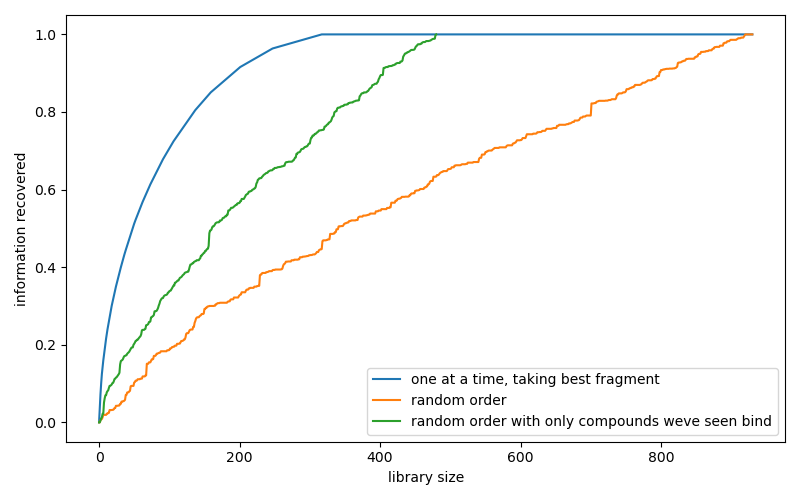
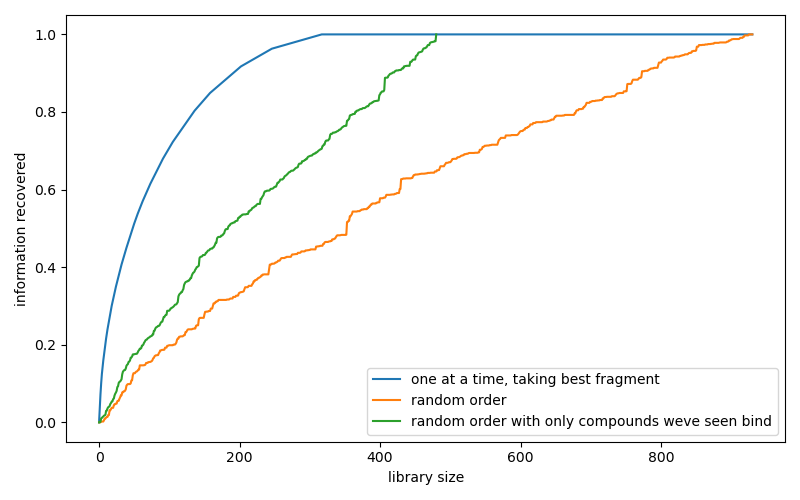
smaller dataset

diff --git a/scripts/test_rankings.py b/scripts/test_rankings.py
@@ -3,10 +3,15 @@ import json
 from rank_compounds import get_next_best_compound, get_all_smiles, rank
 import matplotlib.pyplot as plt
 import random
+from rdkit import Chem
+from rdkit.Chem import AllChem
+from rdkit.Chem import DataStructs, SaltRemover
 
 
 def get_reduced_smiles_bits(smiles_bits, test_target):
     
+    # get smiles bits without the target being tested 
+
     reduced = {}
 
     for t in smiles_bits:
@@ -17,6 +22,9 @@ def get_reduced_smiles_bits(smiles_bits, test_target):
 
 
 def get_fraction(comps, smiles_bits, target, total_information):
+
+    # get the fraction of information recovered using a subset of DSiP compounds
+
     target_fraction = [0]
     current_info = []
 
@@ -34,14 +42,23 @@ def get_fraction(comps, smiles_bits, target, total_information):
 
 
 smiles_bits = json.load(open('data/datafiles/smiles_bits.json', 'r'))
+frequent_comps = json.load(open('data/datafiles/frequently_tested_compounds.json', 'r'))
+target_tests = json.load(open('data/datafiles/target_test_numbers.json', 'r'))
+lib_size = 150
 
 smol = []
+print(target_tests)
 for t in smiles_bits:
-    if len(smiles_bits[t]) < 10:
+    if t in target_tests:
+        print(t, target_tests[t])
+    if t in target_tests and target_tests[t] < 250:
+        smol.append(t)
+    elif t not in target_tests:
         smol.append(t)
 
 for t in smol:
     del smiles_bits[t]
+
 # DSiP_smiles = all_smiles + ['C'] * 450
 # random.shuffle(DSiP_smiles)
 
@@ -52,11 +69,13 @@ fractions = []
 random_fractions = []
 comps_lists = []
 
+mean_random_fractions_250 = []
+print(len(smiles_bits))
 for test_target in smiles_bits:
 
     smiles_bits_reduced = get_reduced_smiles_bits(smiles_bits, test_target)
-    all_smiles = get_all_smiles(smiles_bits_reduced)
-    comps, x = rank(smiles_bits_reduced, all_smiles, 250)
+    all_smiles = [i for i in get_all_smiles(smiles_bits_reduced) if i in frequent_comps]
+    comps, x = rank(smiles_bits_reduced, all_smiles, lib_size)
     comps_lists += comps
 
 
@@ -68,11 +87,20 @@ for test_target in smiles_bits:
     target_fraction = get_fraction(comps, smiles_bits, test_target, total_information)
     fractions.append(target_fraction)
 
-    add_for_DSiP = 1007 - len(all_smiles)
+    add_for_DSiP = 459 - len(all_smiles)
     all_smiles += ['C'] * add_for_DSiP
     random.shuffle(all_smiles)
-    random_fraction = get_fraction(all_smiles[:250], smiles_bits, test_target, total_information)
+
+    random_fraction = get_fraction(all_smiles[:lib_size], smiles_bits, test_target, total_information)
     random_fractions.append(random_fraction)
+
+    random_fractions_250 = []
+    for i in range(1000):
+        random.shuffle(all_smiles)
+        random_fractions_250.append(get_fraction(all_smiles[:lib_size], smiles_bits, test_target, total_information)[-1])
+    mean_random_fractions_250.append(sum(random_fractions_250)/1000)
+
+
 
 
     print(test_target, len(comps), len(smiles_bits[test_target]), target_fraction[-1])
@@ -112,24 +140,26 @@ counts = [comps_lists.count(i) for i in all_smiles]
 plt.close()
 plt.figure(figsize=(8, 5))
 plt.bar(list(set(counts)), [counts.count(i) for i in set(counts)])
-plt.xlabel('number of times fragments in top 250')
+plt.xlabel(f'number of times fragments in top {lib_size}')
 plt.tight_layout()
 plt.savefig('figures/compound_counts.png')
 
-
+max_possible_improvement = []
 improvement = []
 for i in range(len(fractions)):
     try:
-        improvement.append((fractions[i][250]-random_fractions[i][250])/random_fractions[i][250])
+        improvement.append((fractions[i][lib_size]-mean_random_fractions_250[i])/mean_random_fractions_250[i])
+        max_possible_improvement.append((1-mean_random_fractions_250[i])/mean_random_fractions_250[i])
     except:
         improvement.append(0)
 
 
 plt.close()
-plt.figure(figsize=(8, 5))
+plt.figure(figsize=(8, 7))
+# plt.barh([t for t in smiles_bits], [improvement[i]/max_possible_improvement[i] for i in range(len(improvement))])
 plt.barh([t for t in smiles_bits], improvement)
-plt.xlabel('factor of information improvement in library size 250')
+plt.xlabel(f'factor of information improvement in DSiP-diverse {lib_size} vs average of 1,000 random runs')
 plt.ylabel('target')
-plt.xlim(-2, 10)
+# plt.xlim(-2, 7)
 plt.tight_layout()
 plt.savefig('figures/improvement_by_target.png')

diff --git a/scripts/structurally_diverse_library.py b/scripts/structurally_diverse_library.py
@@ -1,0 +1,77 @@
+from rdkit import Chem
+from rdkit.Chem import AllChem
+from rdkit.Chem import DataStructs, SaltRemover, rdMolDescriptors, MACCSkeys
+from rdkit import SimDivFilters
+import numpy as np
+import os
+from rank_compounds import get_all_smiles
+import json
+
+
+def dmat_sim(fps,ntopick):
+    ds=[]
+    for i in range(1,len(fps)):
+         ds.extend(DataStructs.BulkTanimotoSimilarity(fps[i],fps[:i],returnDistance=True))
+    mmp =SimDivFilters.MaxMinPicker()
+    ids=mmp.Pick(np.array(ds),len(fps),ntopick)
+    return ids
+
+
+def get_DSiP_smiles():
+
+    # using the sdf files provided by Enamine, the molecules are cleaned of salts and converted into SMILES strings
+
+    DSiP = []
+
+    for filename in os.listdir('data/DSiP'):
+        DSiP += list(Chem.SDMolSupplier(f'data/DSiP/{filename}'))
+
+    remover = SaltRemover.SaltRemover()
+    DSiP = [remover.StripMol(mol) for mol in DSiP]
+    DSiP_smiles = [Chem.MolToSmiles(i) for i in DSiP]
+    DSiP_smiles = list(set(DSiP_smiles))
+
+    return DSiP_smiles
+
+# smiles_bits = json.load(open('data/datafiles/smiles_bits.json', 'r'))
+# all_smiles = get_all_smiles(smiles_bits)
+DSiP_smiles = json.load(open('data/datafiles/frequently_tested_compounds.json', 'r'))
+ms = [Chem.MolFromSmiles(i) for i in DSiP_smiles]
+# fps = [rdMolDescriptors.GetMorganFingerprintAsBitVect(m,2) for m in ms]
+fps = [MACCSkeys.GenMACCSKeys(m) for m in ms]
+
+dmat_ids=dmat_sim(fps,250)
+MaxMinSmiles = [DSiP_smiles[i] for i in list(dmat_ids)]
+MaxMinMols = [ms[i] for i in list(dmat_ids)]
+
+MaxMinMACCS = [MACCSkeys.GenMACCSKeys(x) for x in MaxMinMols]
+MACCS_sim = []
+
+for i in range(len(MaxMinMACCS)):
+    for j in range(i+1, len(MaxMinMACCS)):
+        MACCS_sim.append(DataStructs.FingerprintSimilarity(MaxMinMACCS[i],MaxMinMACCS[j]))
+
+import matplotlib.pyplot as plt
+
+plt.hist(MACCS_sim)
+plt.savefig('figures/MACCS_sim.png')
+
+MaxMinLib = []
+print(len(MaxMinSmiles))
+
+all_fps = [AllChem.GetMorganFingerprint(Chem.MolFromSmiles(sm),2) for sm in all_smiles]
+MaxMin_fps = [AllChem.GetMorganFingerprint(Chem.MolFromSmiles(sm),2) for sm in MaxMinSmiles]
+for fp1 in range(len(all_fps)):
+    for fp2 in range(len(MaxMin_fps)):
+        mol_sim = DataStructs.DiceSimilarity(all_fps[fp1], MaxMin_fps[fp2])
+        if mol_sim == 1.0:
+            MaxMinLib.append(all_smiles[fp1])
+            break
+
+to_add = 250-len(MaxMinLib)
+MaxMinLib += ['C'] * to_add
+
+print(len(MaxMinLib))
+
+json.dump(MaxMinLib, open('data/datafiles/MaxMinLib.json', 'w'))
+json.dump(all_smiles, open('data/datafiles/all_smiles.json', 'w'))
